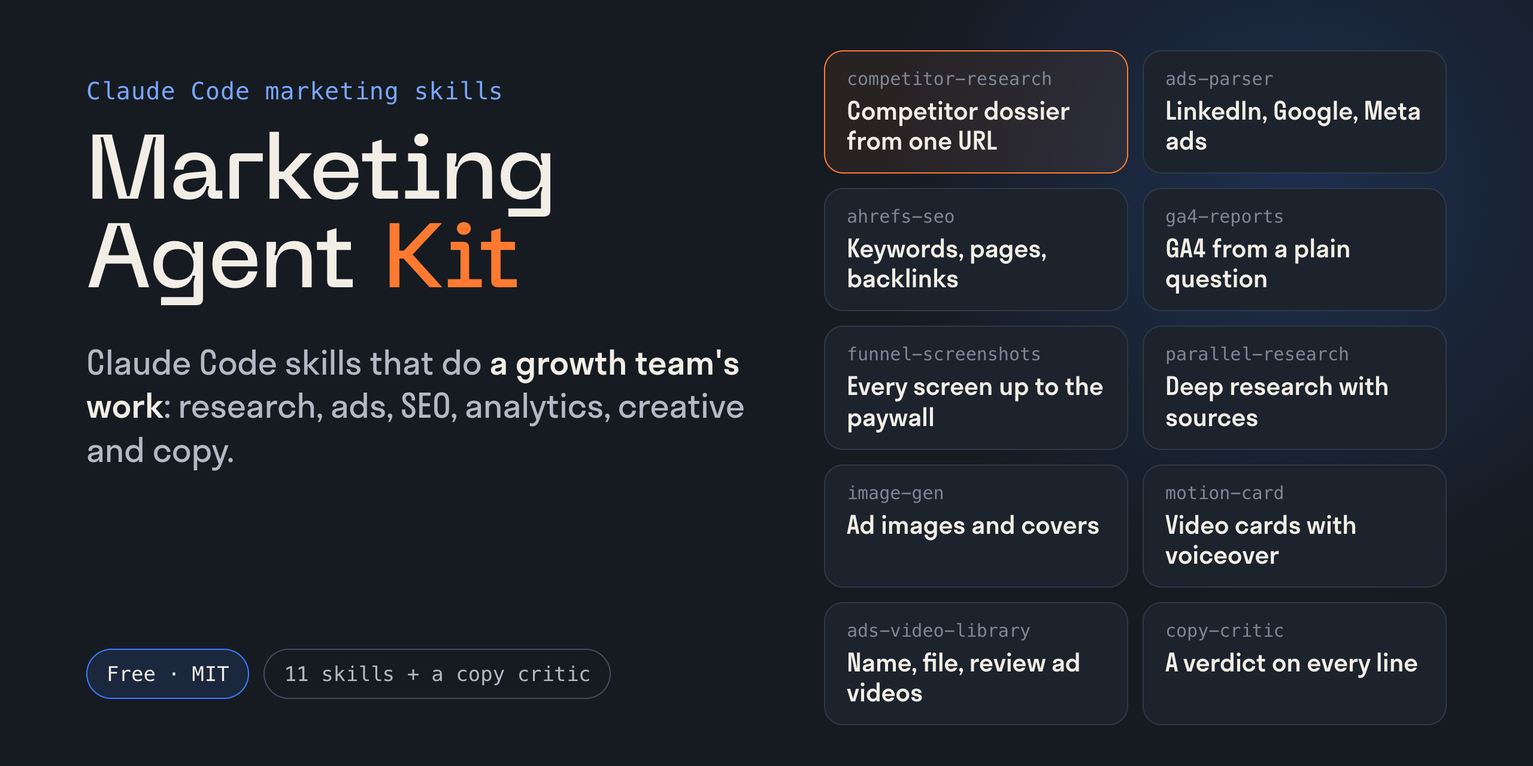
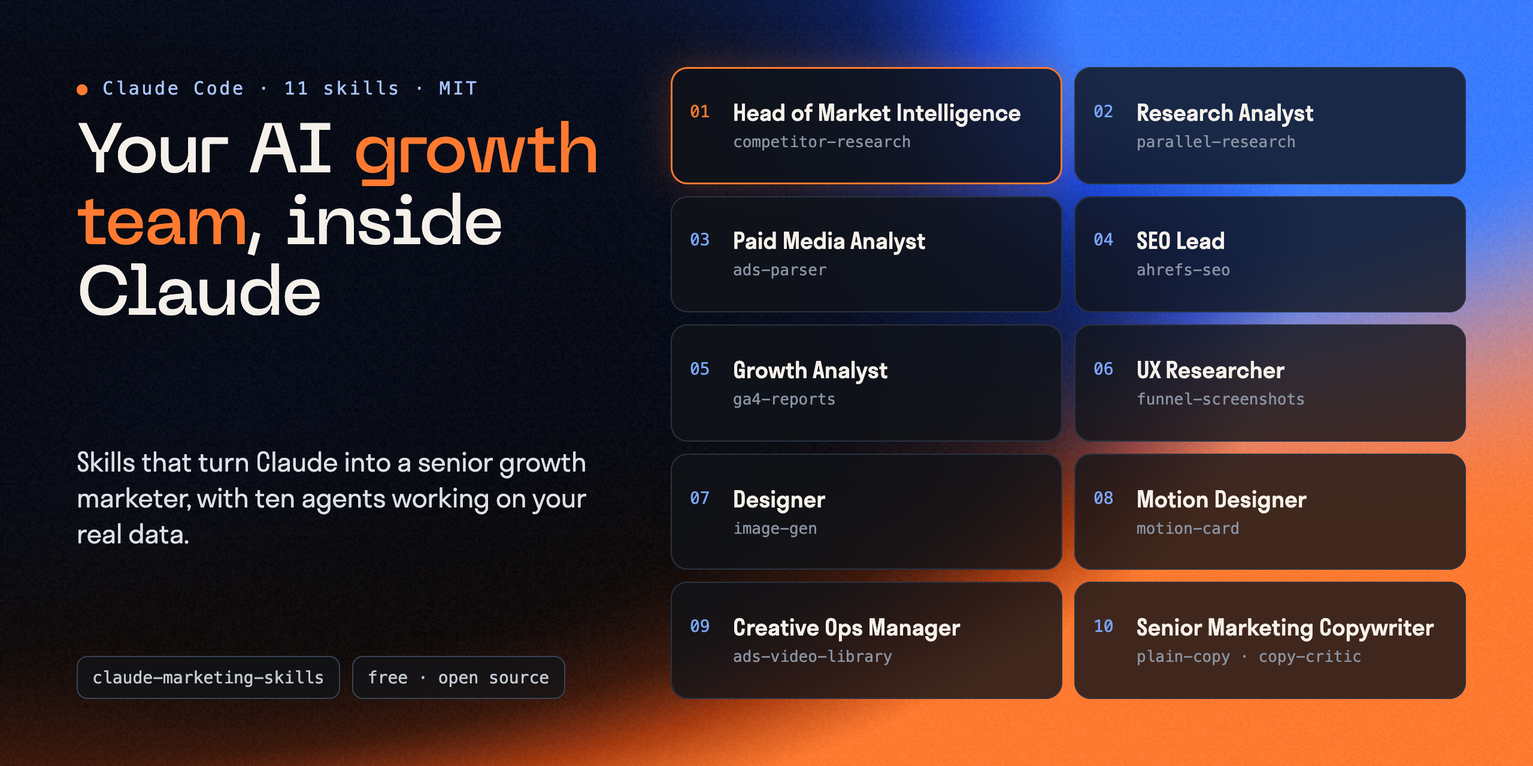
README: an AI growth team for Claude Code; skills parse as strict YAML
- New README modelled on what works in this category: why install, Meet the team (agents with job titles), how the team works together, install options incl. npx skills, usage, categories
- New cover in the workshop deck's style with the team as badges
- SKILL.md descriptions as YAML block scalars: npx skills found 1 of 11 skills before, 11 of 11 now
- Plugin display name, description and version 0.2.0

diff --git a/README.md b/README.md
@@ -1,104 +1,154 @@
-# Marketing Agent Kit: Claude Code marketing skills for growth teams
+# Claude Marketing Skills: an AI growth team for Claude Code
 
 [![Release](https://img.shields.io/github/v/release/tymoshenko-dmytro/claude-marketing-skills)](https://github.com/tymoshenko-dmytro/claude-marketing-skills/releases)
 [![License: MIT](https://img.shields.io/badge/license-MIT-blue)](LICENSE)
-[![Claude Code plugin](https://img.shields.io/badge/Claude_Code-plugin-D97757)](#install)
+[![Claude Code plugin](https://img.shields.io/badge/Claude_Code-plugin-D97757)](#installation)
 
-**Free Claude Code skills that let one marketer do the work of a growth team.**
+Claude marketing skills that turn Claude Code into a senior growth marketer, with a team behind it. Ten agents research competitors, pull ads from the public libraries, read Ahrefs and GA4, screenshot funnels, make ad images and videos, and check every line of copy. Each one works on your real data, not on general advice. Use them to strengthen a growth team, or to run growth without one.
 
-![Marketing Agent Kit: 11 Claude Code marketing skills and a copy critic](docs/images/cover.png)
+Works with [Claude Code](https://code.claude.com) and any agent that supports the [Agent Skills](https://agentskills.io) format.
 
-[Claude Code](https://code.claude.com) is Anthropic's AI agent. Each skill in this kit teaches it one job that a growth team usually gives to a specialist, from competitor research and SEO data to ad images and copy review. You give Claude the task and decide what to do with the result. Long jobs, like a full competitor dossier, run in the background while you work on something else.
+Built by [Dmytro Tymoshenko](https://www.linkedin.com/in/tymoshenko-dmytro), Head of Growth at Palabra.ai and ex-CEO of Eightify. These skills came out of a real B2B SaaS growth team in 2026. The company-specific parts are taken out.
 
-Built from real work at a B2B SaaS growth team in 2026, with the company-specific parts taken out so you can adapt each skill to your own work.
+![Claude Marketing Skills: ten agents with job titles, each a Claude Code skill](docs/images/cover.png)
 
-## The jobs, and who usually does them
+**Contributions welcome.** Found a fix or have a new skill? [Open a PR](CONTRIBUTING.md). Question or problem? [Open an issue](https://github.com/tymoshenko-dmytro/claude-marketing-skills/issues).
 
-| Usually a job for | What you get | Skill | Needs |
+## Why install these instead of writing your own?
+
+You can write a skill in an evening. Making one that works on real data takes months of fixing what goes wrong. These skills already contain those fixes:
+
+- **They do the work, not give advice.** Each skill connects to a real source (Ahrefs, GA4, Meta, LinkedIn and Google ad libraries, Parallel, a real browser, OpenAI images, ElevenLabs) and returns a file you can use: a dossier, a report, screenshots, images, a video.
+- **They know the traps.** For example: LinkedIn shows impressions only for ads shown in the EU. A name search in its library returns other companies' ads. Ahrefs' paid-traffic estimates are not reliable. GA4 sign-up events can double count. Each skill handles these cases so that you don't learn them the hard way.
+- **Every fact has a source.** Research skills link each claim to the page it came from, so you can check the work before you act on it.
+- **Setup takes minutes.** The `connect` skill walks you through each key, keeps the keys out of the chat, and tests each one with a free request.
+- **They work as one team.** The research lead runs the researcher, the paid-media analyst and the SEO lead together. The critic reviews the copy of every other skill.
+- **They are templates.** Every skill ends with an **Adapt it** section, so it learns your rules, your funnel and your brand.
+
+They work well alongside [Marketing Skills by Corey Haines](https://github.com/coreyhaines31/marketingskills): his skills give Claude the marketing frameworks, and these give it access to data and tools.
+
+## Meet the team
+
+| Agent | Skill | What it does | Works with |
 |---|---|---|---|
-| a competitive-intelligence analyst | A dossier on a competitor from just its website address: product, pricing, customers, community, ads, SEO, team and press, as a knowledge base and an HTML report. | [`competitor-research`](skills/competitor-research/SKILL.md) | Parallel, SearchApi, Ahrefs |
-| a desk researcher | Web research on a question you set, with links to its sources: a quick search in minutes, or a deep report that can take up to an hour. | [`parallel-research`](skills/parallel-research/SKILL.md) | Parallel |
-| a paid-media analyst | The ads a company has in the public LinkedIn, Google and Meta ad libraries, with each ad's text, run dates and link, and impressions where the library shows them. | [`ads-parser`](skills/ads-parser/SKILL.md) | SearchApi |
-| an SEO specialist | Organic keywords, top pages, backlinks, Domain Rating and search volumes for any website, with a guide to what each request costs on your Ahrefs plan. | [`ahrefs-seo`](skills/ahrefs-seo/SKILL.md) | Ahrefs (paid) |
-| a web analyst | Google Analytics 4 reports from a plain question, including period comparisons and where people drop out of your funnel, with notes on the reporting mistakes people usually make. | [`ga4-reports`](skills/ga4-reports/SKILL.md) | Google login |
-| a UX researcher | A high-resolution iPhone screenshot of each screen in a competitor's quiz or onboarding funnel, including the paywall and discount pop-ups, up to the payment form, which it leaves empty. | [`funnel-screenshots`](skills/funnel-screenshots/SKILL.md) | Python (Playwright installs itself) |
-| a designer | Ad images, blog covers and landing-page illustrations made with OpenAI GPT Image, as drafts or final versions, and a check that any text in the picture came out as written. | [`image-gen`](skills/image-gen/SKILL.md) | OpenAI key |
-| a motion designer | Short animated video cards, such as an end card, a title card or an animated call to action, with voiceover. They are built from code, so every word appears exactly as written and you can edit and render them again. | [`motion-card`](skills/motion-card/SKILL.md) | Node 22+, FFmpeg, ElevenLabs |
-| a creative-operations manager | Your finished ad videos named and filed by month, language and type, and listed in a CSV or Google Sheet, with a cover image and a review page for approving or rejecting each one. | [`ads-video-library`](skills/ads-video-library/SKILL.md) | FFmpeg |
-| an editor | Edits that make your copy clear to a stranger in one read and stop it sounding AI-written, plus a critic agent that gives each line a verdict and a rewrite. | [`plain-copy`](skills/plain-copy/SKILL.md) + [`copy-critic`](agents/copy-critic.md) | — |
+| **Head of Market Intelligence** | [`competitor-research`](skills/competitor-research/) | Builds a full dossier on a competitor from its domain: product, pricing, customers, ads, SEO, team and press. It runs the other research agents and gives you a knowledge base and an HTML report | Parallel, SearchApi, Ahrefs |
+| **Research Analyst** | [`parallel-research`](skills/parallel-research/) | Does deep research on any question: a quick sourced search in seconds, or a cited report in 5 to 60 minutes | Parallel |
+| **Paid Media Analyst** | [`ads-parser`](skills/ads-parser/) | Gets every ad a company runs in the LinkedIn, Google and Meta libraries: text, images, videos, run dates, and impressions where the library shows them | SearchApi |
+| **SEO Lead** | [`ahrefs-seo`](skills/ahrefs-seo/) | Gets keywords, volumes, difficulty, top pages, backlinks and Domain Rating for any site. A guide shows what each request costs | Ahrefs |
+| **Growth Analyst** | [`ga4-reports`](skills/ga4-reports/) | Answers GA4 questions asked in plain words: traffic, channels, period comparisons and funnel drop-off | Google login |
+| **UX Researcher** | [`funnel-screenshots`](skills/funnel-screenshots/) | Goes through a competitor's quiz or onboarding funnel and takes a retina iPhone screenshot of every screen, up to the paywall | Playwright (installs itself) |
+| **Designer** | [`image-gen`](skills/image-gen/) | Makes ad images, blog covers and illustrations, and checks that the text in each picture came out as written | OpenAI |
+| **Motion Designer** | [`motion-card`](skills/motion-card/) | Makes short video cards with a voiceover. They are built from code, so every word appears exactly as written and you can change it | HyperFrames, ElevenLabs |
+| **Creative Ops Manager** | [`ads-video-library`](skills/ads-video-library/) | Names your ad videos, files them and lists them in a catalogue. It also makes a review page where each video gets approved or rejected | FFmpeg, Google Drive (optional) |
+| **Senior Marketing Copywriter** | [`plain-copy`](skills/plain-copy/) + [`copy-critic`](agents/copy-critic.md) | Rewrites copy so a stranger understands it in one read. A critic agent gives every line a verdict and a rewrite | none |
+| *Onboarding* | [`connect`](skills/connect/) | Sets up keys, Google login and MCP servers, then runs a health check | none |
 
-[`connect`](skills/connect/SKILL.md) sets all of this up: it walks you through each key, registers the MCP servers and tests every key with a free request.
-
-**The critic.** [`copy-critic`](agents/copy-critic.md) reads ad copy like a stranger scrolling a feed and returns a verdict and a rewrite for every line. It started as a critic trained on one founder's comments; [here is how to train your own on your corrections](docs/train-your-critic.md).
-
-**Connections.** One guide per service with access, cost, setup, a check and the gotchas: [connections/](connections/README.md). Google Ads, GA4, Ahrefs, Stripe, BigQuery, Playwright, Parallel, SearchApi, ElevenLabs, OpenAI Images, HyperFrames and Higgsfield.
-
-## Things to ask
-
-Once the kit is installed, plain requests are enough. Claude picks the skill from what you ask:
-
-- "Research competitor example.com and build a knowledge base"
-- "What ads is Example running on LinkedIn and Meta right now?"
-- "Which pages bring example.com the most organic traffic?"
-- "Compare last month's signups by channel with the month before"
-- "Screenshot every step of the quiz at example.com/start, including the paywall"
-- "Make two ad images for this headline, draft quality"
-- "Make a 10-second end card that says 'Spring sale: 20% off', with a female voiceover"
-- "Name these ad videos, add them to the catalogue and make me a review page"
-- "Would a stranger understand this headline?"
-
-## Read before you install
-
-**Don't install skills blindly, this kit included.** Every installed skill adds its description to every conversation and competes for Claude's attention, and a skill written for someone else's workflow quietly does things their way. Treat these as templates:
-
-1. Read the `SKILL.md` of the ones you want. They're short.
-2. Install only what you'll use this month.
-3. Each skill ends with **"Adapt it"**. Do that part: the skills get good when they hold *your* corrections, your report rules, your funnel events, your copy patterns and your brand.
-
-## Install
-
-**As a plugin** (Claude Code terminal or desktop app):
+## How the team works together
 
 ```
+                         ┌───────────────────────────────┐
+                         │            connect            │
+                         │  keys · MCP servers · checks  │
+                         └───────────────┬───────────────┘
+                                         │
+        ┌────────────────────────────────┼────────────────────────────────┐
+        ▼                                ▼                                ▼
+ ┌──────────────────────┐   ┌───────────────────────────┐   ┌───────────────────────────┐
+ │ RESEARCH             │   │ MEASUREMENT               │   │ CREATIVE                  │
+ │                      │   │                           │   │                           │
+ │ competitor-research  │   │ ga4-reports               │   │ image-gen                 │
+ │   ├ parallel-research│   │ funnel-screenshots        │   │ motion-card               │
+ │   ├ ads-parser       │   │                           │   │   └ ads-video-library     │
+ │   └ ahrefs-seo       │   │                           │   │                           │
+ └──────────┬───────────┘   └─────────────┬─────────────┘   └─────────────┬─────────────┘
+            │                             │                               │
+            └──────────── findings, ads, screens, drafts ─────────────────┘
+                                          ▼
+                         ┌───────────────────────────────┐
+                         │  plain-copy  ↔  copy-critic   │
+                         │  every line gets a verdict    │
+                         └───────────────────────────────┘
+```
+
+## Installation
+
+### Option 1: Claude Code plugin (recommended)
+
+```bash
 /plugin marketplace add tymoshenko-dmytro/claude-marketing-skills
 /plugin install marketing-agent-kit@marketing-agent-kit
 ```
 
-Skills are then available as `/marketing-agent-kit:<skill>`; Claude also picks them up automatically from what you ask.
+### Option 2: skills CLI
 
-**Or copy what you want:**
+```bash
+npx skills add tymoshenko-dmytro/claude-marketing-skills                     # all skills
+npx skills add tymoshenko-dmytro/claude-marketing-skills --skill ads-parser  # one skill
+```
+
+### Option 3: clone and copy
 
 ```bash
 git clone https://github.com/tymoshenko-dmytro/claude-marketing-skills.git
-cp -R claude-marketing-skills/skills/ads-parser ~/.claude/skills/        # one skill, all projects
-cp claude-marketing-skills/agents/copy-critic.md ~/.claude/agents/       # the critic
+cp -R claude-marketing-skills/skills/ads-parser ~/.claude/skills/
+cp claude-marketing-skills/agents/copy-critic.md ~/.claude/agents/
 ```
-
-Use `<project>/.claude/skills/` instead of `~/.claude/skills/` to scope a skill to one project.
 
 ## First run
 
-Ask Claude: **"Set up the kit for competitor research"** (or whatever you want to do). The `connect` skill creates a private keys file, walks you through getting each key, registers MCP servers and runs a health check:
+Ask Claude: **"Set up the kit for competitor research"**. The `connect` skill creates a private keys file, helps you get each key, and checks every connection with a free request.
 
-```bash
-python3 skills/connect/scripts/kit.py init           # ~/.config/marketing-agent-kit/.env, chmod 600
-python3 skills/connect/scripts/kit.py doctor --live  # what works, what's missing
+## Usage
+
+Ask in plain words. Claude picks the right agent:
+
 ```
+"Research competitor example.com and build a knowledge base"   → competitor-research
+"What ads is Example running on LinkedIn and Meta right now?"   → ads-parser
+"Which pages bring example.com the most organic traffic?"       → ahrefs-seo
+"Compare last month's sign-ups by channel with the month before" → ga4-reports
+"Screenshot every step of the quiz at example.com/start"        → funnel-screenshots
+"Make two ad images for this headline, draft quality"           → image-gen
+"Make a 10-second end card: 'Spring sale: 20% off'"             → motion-card
+"Would a stranger understand this headline?"                    → plain-copy + copy-critic
+```
+
+You can also run a skill directly: `/competitor-research`, `/ads-parser`, `/ga4-reports`.
+
+## Skill categories
+
+### Research and intelligence
+- `competitor-research`: full competitor dossier (runs the next three)
+- `parallel-research`: deep, sourced web research
+- `ads-parser`: competitor ads from the public libraries
+- `ahrefs-seo`: SEO data for any domain
+
+### Measurement and UX
+- `ga4-reports`: GA4 reports from a plain question
+- `funnel-screenshots`: every screen of a funnel, up to the paywall
+
+### Creative
+- `image-gen`: ad images, covers and illustrations
+- `motion-card`: video cards with a voiceover
+- `ads-video-library`: naming, catalogue and review page for ad videos
+
+### Copy
+- `plain-copy` and `copy-critic`: clear copy, a verdict and a rewrite for every line
+
+## Read before you install
+
+Install only the skills you will use this month. Every installed skill adds its description to every conversation. Then do the **Adapt it** part of each one: the skills work best once they hold your corrections, report rules, funnel events and brand.
 
 ## Keys and privacy
 
-- All keys live in **one file outside any repository**: `~/.config/marketing-agent-kit/.env` (template: [.env.example](.env.example)). You type them in yourself.
-- **Never paste keys into a chat**: chats are saved to disk. The scripts read the file and never print keys.
-- A server registered for a shared project (`kit.py mcp add … --scope project`) gets a `${VAR}` reference in `.mcp.json`, never the key itself.
-- Prefer OAuth where a service offers it, read-only permissions, and spending caps. Each connection guide says how.
-- Research outputs (`raw/`, `dist/`, catalogues) are in `.gitignore`, and `funnel-screenshots` keeps its browser session and typed values out of git wherever you save them. Keep client data out of your forks.
+All keys live in one file outside any repository: `~/.config/marketing-agent-kit/.env` (chmod 600). Never paste keys into a chat. Research output and catalogues are in `.gitignore`. [More on connections →](connections/README.md)
 
 ## Requirements
 
 - Python 3.9+ (scripts use the standard library only; Google Drive mode of `ads-video-library` needs `pip install google-auth requests`)
 - FFmpeg for `ads-video-library` and `motion-card`; Node.js 18+ for Playwright MCP, 22+ for HyperFrames; `gcloud` + `pipx` for Google services; ~400 MB for `funnel-screenshots` (its setup installs Playwright and Chromium)
 
-## What else I use (not included)
+## Works well with
 
 Good work by others. Read before installing, same rule as above.
 
@@ -117,9 +167,9 @@ Good work by others. Read before installing, same rule as above.
 - Poster selection and the frame-0 technique in `ads-video-library` are adapted from [/brag](https://github.com/latent-spaces/brag) by Shunit Haviv Hakimi (MIT).
 - Connection facts checked against vendor documentation on 2026-10-01.
 
-## Questions and contributions
+## Contributing
 
-Questions and ideas: [Discussions](https://github.com/tymoshenko-dmytro/claude-marketing-skills/discussions). Bugs: [open an issue](https://github.com/tymoshenko-dmytro/claude-marketing-skills/issues/new/choose). How to contribute: [CONTRIBUTING.md](CONTRIBUTING.md).
+Found a way to improve a skill? Have a new one? See [CONTRIBUTING.md](CONTRIBUTING.md).
 
 ## License
 

diff --git a/skills/ads-video-library/SKILL.md b/skills/ads-video-library/SKILL.md
@@ -1,6 +1,7 @@
 ---
 name: ads-video-library
-description: Name, store and catalogue finished ad videos — canonical file names, a poster frame for every video (optionally baked in as frame 0 so feeds and chats show it as the thumbnail), contact sheets for QA, storage under Month / Language / Type in a local folder or a Google shared drive, a CSV catalogue (plus an optional Google Sheet), and a gallery.html review page with approve / reject / notes. Use after rendering any batch of ad creatives — motion cards, UGC, demos, cut-downs. Triggers: "upload the renders", "catalogue these videos", "name these files", "publish the creatives", "make a review page". Not for rendering.
+description: >-
+  Name, store and catalogue finished ad videos — canonical file names, a poster frame for every video (optionally baked in as frame 0 so feeds and chats show it as the thumbnail), contact sheets for QA, storage under Month / Language / Type in a local folder or a Google shared drive, a CSV catalogue (plus an optional Google Sheet), and a gallery.html review page with approve / reject / notes. Use after rendering any batch of ad creatives — motion cards, UGC, demos, cut-downs. Triggers: "upload the renders", "catalogue these videos", "name these files", "publish the creatives", "make a review page". Not for rendering.
 ---
 
 # Ads video library

diff --git a/skills/motion-card/SKILL.md b/skills/motion-card/SKILL.md
@@ -1,6 +1,7 @@
 ---
 name: motion-card
-description: Build a short branded video from code instead of filming or generating it — an end card, a title card, an animated offer or CTA card, a product-UI panel with animated text, a logo sting, a lower third — rendered from HTML/CSS/GSAP to MP4 with HyperFrames, with voiceover and sound effects from ElevenLabs. Exact text, deterministic, re-renderable for free. Use when a piece must be pixel-exact and repeatable, or a set of cards must share one template. Triggers: "make an end card", "title card", "animated CTA", "logo sting", "simple video with voiceover". Not for generative footage of people or scenes.
+description: >-
+  Build a short branded video from code instead of filming or generating it — an end card, a title card, an animated offer or CTA card, a product-UI panel with animated text, a logo sting, a lower third — rendered from HTML/CSS/GSAP to MP4 with HyperFrames, with voiceover and sound effects from ElevenLabs. Exact text, deterministic, re-renderable for free. Use when a piece must be pixel-exact and repeatable, or a set of cards must share one template. Triggers: "make an end card", "title card", "animated CTA", "logo sting", "simple video with voiceover". Not for generative footage of people or scenes.
 ---
 
 # Motion card

diff --git a/skills/plain-copy/SKILL.md b/skills/plain-copy/SKILL.md
@@ -1,6 +1,7 @@
 ---
 name: plain-copy
-description: Write or edit marketing copy so a stranger understands it in one read and it doesn't sound machine-written — ads, banners, landing-page blocks, cold emails, support and retention messages, research reports. Removes AI patterns (rhetorical triples, punchy fragments, clever circumlocutions, invented authority), fixes numbers without context, keeps the author's voice. Use when writing or reviewing any customer-facing text, or when copy "sounds like AI", "is unclear", "too clever", "too long". Triggers: "make this plainer", "this sounds like AI", "edit this copy", "tighten this".
+description: >-
+  Write or edit marketing copy so a stranger understands it in one read and it doesn't sound machine-written — ads, banners, landing-page blocks, cold emails, support and retention messages, research reports. Removes AI patterns (rhetorical triples, punchy fragments, clever circumlocutions, invented authority), fixes numbers without context, keeps the author's voice. Use when writing or reviewing any customer-facing text, or when copy "sounds like AI", "is unclear", "too clever", "too long". Triggers: "make this plainer", "this sounds like AI", "edit this copy", "tighten this".
 ---
 
 # Plain copy

diff --git a/skills/ga4-reports/SKILL.md b/skills/ga4-reports/SKILL.md
@@ -1,6 +1,7 @@
 ---
 name: ga4-reports
-description: Pull and explain Google Analytics 4 reports — traffic by source and channel, period comparisons, daily breakdowns, conversion events, signup and purchase funnels — through the GA4 MCP server, with a REST fallback when the MCP hangs. Knows the GA4 reporting traps (cross-day attribution, users vs events, Ads vs GA date mismatch). Use when someone asks about website traffic, GA4, sessions, conversions, funnel drop-off or channel performance. Triggers: "pull GA4", "traffic last month", "conversions by source", "funnel report", "Google Analytics".
+description: >-
+  Pull and explain Google Analytics 4 reports — traffic by source and channel, period comparisons, daily breakdowns, conversion events, signup and purchase funnels — through the GA4 MCP server, with a REST fallback when the MCP hangs. Knows the GA4 reporting traps (cross-day attribution, users vs events, Ads vs GA date mismatch). Use when someone asks about website traffic, GA4, sessions, conversions, funnel drop-off or channel performance. Triggers: "pull GA4", "traffic last month", "conversions by source", "funnel report", "Google Analytics".
 ---
 
 # GA4 reports

diff --git a/skills/image-gen/SKILL.md b/skills/image-gen/SKILL.md
@@ -1,6 +1,7 @@
 ---
 name: image-gen
-description: Generate or edit marketing images with OpenAI gpt-image-2 through a bundled stdlib-only CLI — blog covers, landing-page illustrations, ad visuals, social graphics, product mockups, inpainting and multi-image compositions — choosing quality (low / medium / high) by whether the user needs drafts or a final asset, and checking every rendered word. Use whenever someone asks to create, draw, render, edit or inpaint an image. Triggers: "generate an image", "make a cover", "illustration for the landing", "edit this picture", "inpaint".
+description: >-
+  Generate or edit marketing images with OpenAI gpt-image-2 through a bundled stdlib-only CLI — blog covers, landing-page illustrations, ad visuals, social graphics, product mockups, inpainting and multi-image compositions — choosing quality (low / medium / high) by whether the user needs drafts or a final asset, and checking every rendered word. Use whenever someone asks to create, draw, render, edit or inpaint an image. Triggers: "generate an image", "make a cover", "illustration for the landing", "edit this picture", "inpaint".
 ---
 
 # Image generation — gpt-image-2

diff --git a/skills/funnel-screenshots/SKILL.md b/skills/funnel-screenshots/SKILL.md
@@ -1,6 +1,7 @@
 ---
 name: funnel-screenshots
-description: Walk a public quiz / onboarding funnel end to end in a real Chromium with iPhone emulation and capture every unique screen as a retina screenshot (1179×2556), then document the paywall, discount modals and the empty payment form — never typing payment data. Output is numbered PNGs, a step log and an INDEX.md. Use for competitor funnel teardowns, onboarding benchmarks, paywall research, or "screenshot every step of this quiz". Triggers: "screenshot this funnel", "walk this quiz", "capture the onboarding", "teardown their paywall".
+description: >-
+  Walk a public quiz / onboarding funnel end to end in a real Chromium with iPhone emulation and capture every unique screen as a retina screenshot (1179×2556), then document the paywall, discount modals and the empty payment form — never typing payment data. Output is numbered PNGs, a step log and an INDEX.md. Use for competitor funnel teardowns, onboarding benchmarks, paywall research, or "screenshot every step of this quiz". Triggers: "screenshot this funnel", "walk this quiz", "capture the onboarding", "teardown their paywall".
 ---
 
 # Funnel screenshots

diff --git a/skills/connect/SKILL.md b/skills/connect/SKILL.md
@@ -1,6 +1,7 @@
 ---
 name: connect
-description: Set up the services this kit's skills use — API keys, Google login, MCP servers — step by step, without keys ever passing through the chat. Creates one private keys file, walks the user through getting each key, registers MCP servers in Claude Code, and runs a health check that tests every key with a free request. Use when someone installs the kit, asks "what do I need to connect", "set up Ahrefs / GA4 / Parallel", "why doesn't X work", or a skill fails on a missing key. Triggers: "connect", "setup", "doctor", "check my keys".
+description: >-
+  Set up the services this kit's skills use — API keys, Google login, MCP servers — step by step, without keys ever passing through the chat. Creates one private keys file, walks the user through getting each key, registers MCP servers in Claude Code, and runs a health check that tests every key with a free request. Use when someone installs the kit, asks "what do I need to connect", "set up Ahrefs / GA4 / Parallel", "why doesn't X work", or a skill fails on a missing key. Triggers: "connect", "setup", "doctor", "check my keys".
 ---
 
 # Connect

diff --git a/skills/competitor-research/SKILL.md b/skills/competitor-research/SKILL.md
@@ -1,6 +1,7 @@
 ---
 name: competitor-research
-description: Full competitor deep-dive on a company by its domain — site parsing (products, customers, pricing), community sentiment, ads from transparency libraries, SEO, team, PR, Parallel deep research — ending in a knowledge base and an HTML report with satellite pages. Use for "research competitor X", "full dossier on X", "build a knowledge base on X", "competitor teardown of X". For a single layer use the narrower skills instead (ads-parser, ahrefs-seo, parallel-research).
+description: >-
+  Full competitor deep-dive on a company by its domain — site parsing (products, customers, pricing), community sentiment, ads from transparency libraries, SEO, team, PR, Parallel deep research — ending in a knowledge base and an HTML report with satellite pages. Use for "research competitor X", "full dossier on X", "build a knowledge base on X", "competitor teardown of X". For a single layer use the narrower skills instead (ads-parser, ahrefs-seo, parallel-research).
 ---
 
 # Competitor research — the full pipeline

diff --git a/skills/ahrefs-seo/SKILL.md b/skills/ahrefs-seo/SKILL.md
@@ -1,6 +1,7 @@
 ---
 name: ahrefs-seo
-description: Pull raw SEO data from Ahrefs for any domain — organic keywords, top pages, backlinks, referring domains, Domain Rating, traffic history, anchors, organic competitors, keyword volumes — through the Ahrefs MCP server or a script fallback, while keeping API-unit spend under control. Use when someone asks for a domain's organic traffic, backlinks, SEO metrics of a competitor, or keyword volumes. Triggers: "check in Ahrefs", "organic traffic of X", "backlinks of X", "keyword volumes".
+description: >-
+  Pull raw SEO data from Ahrefs for any domain — organic keywords, top pages, backlinks, referring domains, Domain Rating, traffic history, anchors, organic competitors, keyword volumes — through the Ahrefs MCP server or a script fallback, while keeping API-unit spend under control. Use when someone asks for a domain's organic traffic, backlinks, SEO metrics of a competitor, or keyword volumes. Triggers: "check in Ahrefs", "organic traffic of X", "backlinks of X", "keyword volumes".
 ---
 
 # Ahrefs SEO data

diff --git a/skills/ads-parser/SKILL.md b/skills/ads-parser/SKILL.md
@@ -1,6 +1,7 @@
 ---
 name: ads-parser
-description: Collect and analyze a company's advertising from public ad-transparency libraries — LinkedIn Ad Library, Google Ads Transparency Center, Meta Ad Library — with exact ad texts, run dates, disclosed impressions and links to every ad. Use when someone asks what ads a company runs, how a competitor advertises, or wants a creative teardown from the libraries. Triggers: "what ads does X run", "competitor ads", "ad library", "collect X's creatives".
+description: >-
+  Collect and analyze a company's advertising from public ad-transparency libraries — LinkedIn Ad Library, Google Ads Transparency Center, Meta Ad Library — with exact ad texts, run dates, disclosed impressions and links to every ad. Use when someone asks what ads a company runs, how a competitor advertises, or wants a creative teardown from the libraries. Triggers: "what ads does X run", "competitor ads", "ad library", "collect X's creatives".
 ---
 
 # Ads parser

diff --git a/skills/parallel-research/SKILL.md b/skills/parallel-research/SKILL.md
@@ -1,6 +1,7 @@
 ---
 name: parallel-research
-description: Web research through Parallel.ai — quick sourced web search (seconds) or deep research tasks (minutes to an hour) that return long cited reports. Use for company dossiers, market scans, funding/team/PR inventories, "what changed this year" sweeps, and any exhaustive fact-finding where every claim needs a URL. Triggers: "deep research on X", "run this through Parallel", "build a dossier on X", "research X with sources".
+description: >-
+  Web research through Parallel.ai — quick sourced web search (seconds) or deep research tasks (minutes to an hour) that return long cited reports. Use for company dossiers, market scans, funding/team/PR inventories, "what changed this year" sweeps, and any exhaustive fact-finding where every claim needs a URL. Triggers: "deep research on X", "run this through Parallel", "build a dossier on X", "research X with sources".
 ---
 
 # Parallel research
